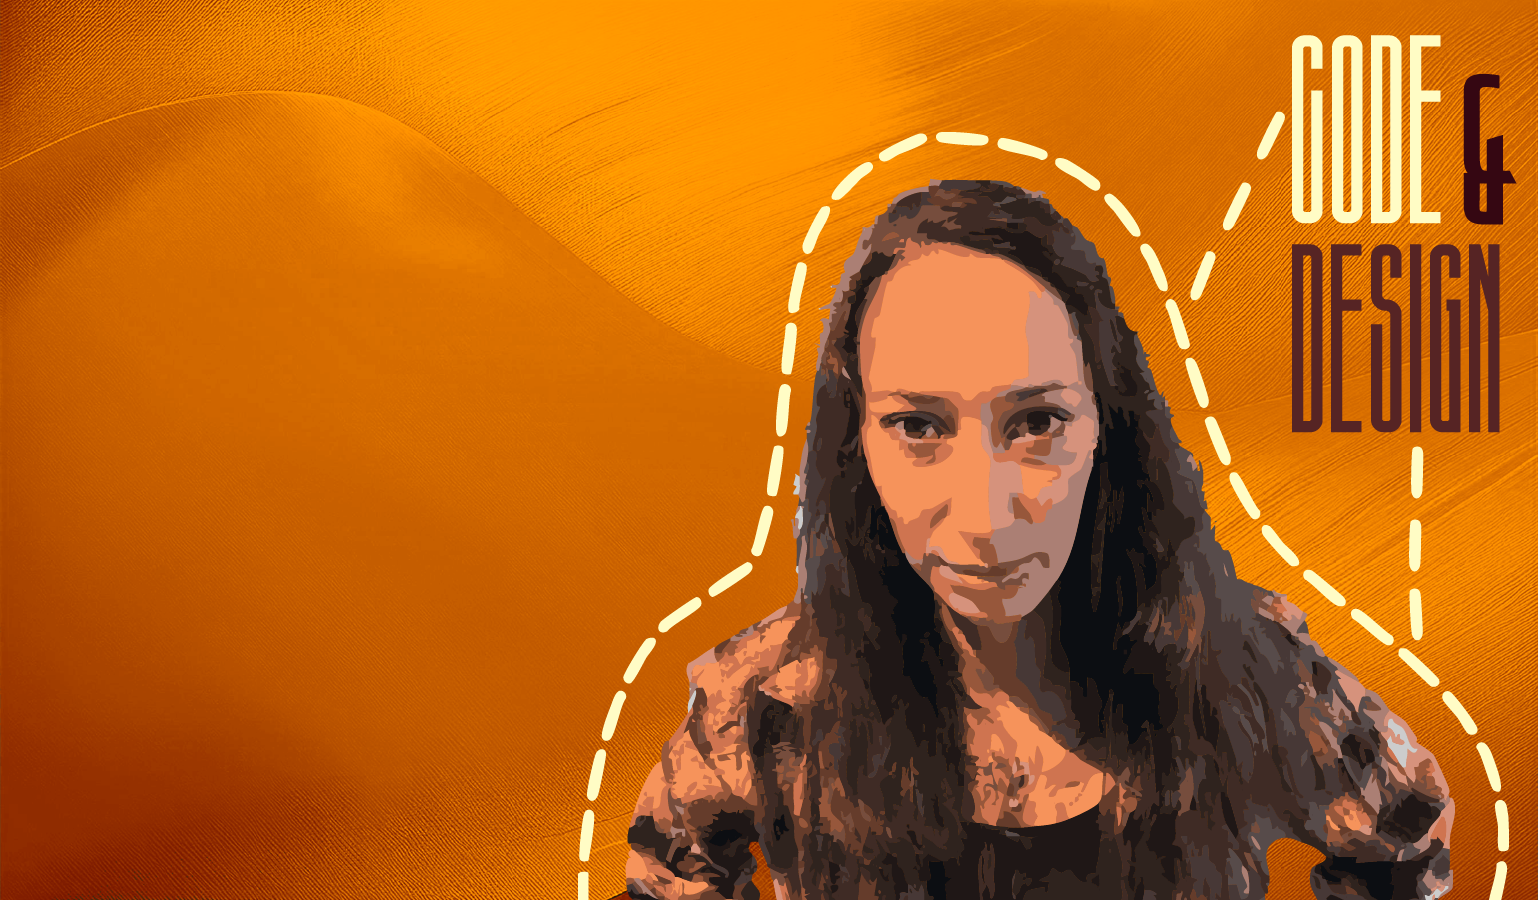
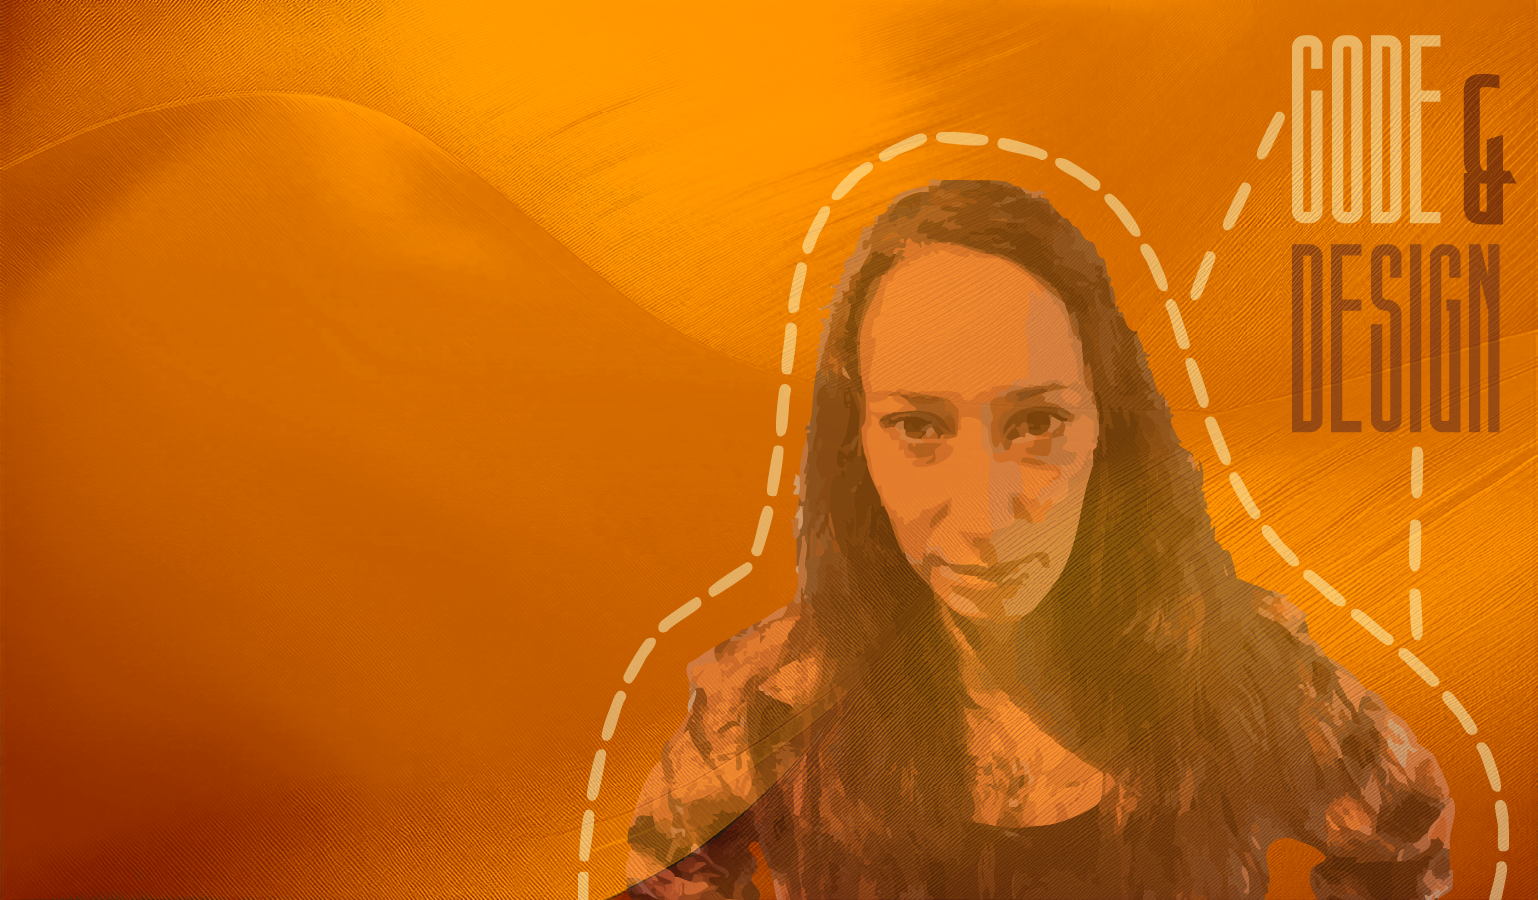
Add dark hero image for dark mode and justify the text more responsive

diff --git a/src/component/heroSection/ResponsiveHeroImage.tsx b/src/component/heroSection/ResponsiveHeroImage.tsx
@@ -1,45 +1,60 @@
-import { useEffect } from "react";
+import { useContext } from "react";
+import { ThemeContext } from "../../context/ThemeContext";
 
 const ResponsiveHeroImage = () => {
-  useEffect(() => {
-    const handleResize = () => {
-      console.log('Window resized:', window.innerWidth);
-    };
+  const themeContext = useContext(ThemeContext);
 
-    window.addEventListener("resize", handleResize);
-    return () => {
-      window.removeEventListener("resize", handleResize);
-    };
-  }, []);
+  if (!themeContext) {
+    return null; // or handle the error as needed
+  }
+
+  const { currentTheme } = themeContext;
+
+  const isDarkMode = currentTheme === "dark";
 
   return (
     <picture>
-      {/* Mobile image for screens up to 767px */}
+      {/* Mobile image */}
       <source
         media="(max-width: 767px)"
-        srcSet="/assets/images/heroImage_mobile.webp 300w, /assets/images/heroImage_mobile.webp 768w"
+        srcSet={
+          isDarkMode
+            ? "/assets/images/heroImage_mobile_dark.webp"
+            : "/assets/images/heroImage_mobile.webp"
+        }
         className="object-cover w-full h-full"
       />
 
-      {/* Tablet image for screens between 768px and 1535px */}
+      {/* Tablet image */}
       <source
         media="(min-width: 768px) and (max-width: 1535px)"
-        srcSet="/assets/images/heroImage_tablet.webp"
+        srcSet={
+          isDarkMode
+            ? "/assets/images/heroImage_tablet_dark.webp"
+            : "/assets/images/heroImage_tablet.webp"
+        }
         className="object-cover w-full h-full"
       />
 
-      {/* Desktop image for screens 1024px and wider */}
+      {/* Desktop image */}
       <source
         media="(min-width: 1536px)"
-        srcSet="/assets/images/heroImage_desktop.webp"
+        srcSet={
+          isDarkMode
+            ? "/assets/images/heroImage_desktop_dark.webp"
+            : "/assets/images/heroImage_desktop.webp"
+        }
         className="object-cover w-full h-full"
       />
 
-      {/* Fallback image for older browsers */}
+      {/* Fallback image */}
       <img
-        src="/assets/images/heroImage_desktop.webp"
+        src={
+          isDarkMode
+            ? "/assets/images/heroImage_desktop_dark.webp"
+            : "/assets/images/heroImage_desktop.webp"
+        }
         alt="Hero Image"
-        loading="lazy"
         className="object-cover w-full h-full"
       />
     </picture>

diff --git a/src/component/heroSection/HeroSection.tsx b/src/component/heroSection/HeroSection.tsx
@@ -25,18 +25,18 @@ const HeroSection = () => {
     <div className="relative w-full h-full flex justify-center">
       <div className="absolute grid grid-cols-1 md:grid-cols-[80%] 2xl:grid-cols-[50%] w-full h-full z-10">
         {/* Text Section */}
-        <div className="flex flex-col justify-center items-start px-6 md:px-12 text-left md:text-left text-[#350712] z-10">
-          <div className="bg-slate-100/40 p-4 rounded">
+        <div className="flex flex-col justify-center items-start px-6 md:px-12 text-left md:text-left z-10 ">
+          <div className="bg-gray-300/40 dark:bg-black/40 p-4 rounded text-text-accent ">
             <h1 className="text2xl sm:text-3xl md:text-3xl lg:text-4xl xl:text-4xl mb-0 font-bold leading-snug" dangerouslySetInnerHTML={{ __html: t("title") }} />
-            <h2 className="text-xl sm:text-2xl md:text-2xl lg:text-3xl mt-4 mb-2">{t("subTitle")}</h2>
-            <h3 className="text-lg sm:text-xl md:text-xl ">{t("textIntro")}</h3>
-            <p className="text-sm sm:text-base md:text-md ">{t("text")}</p>
+            <h2 className="text-[#350712] dark:text-accent-primary text-xl sm:text-2xl md:text-2xl lg:text-3xl mt-4 mb-0">{t("subTitle")}</h2>
+            <h3 className="text-[#350712]/80 text-lg sm:text-xl md:text-xl ">{t("textIntro")}</h3>
+            <p className="text-[#350712] text-sm sm:text-base md:text-md ">{t("text")}</p>
           {/* Buttons */}
-          <div className="flex flex-row gap-4">
-            <Button className="bg-btn-bg text-bg-primary border-2 border-btn-bg hover:bg-bg-hover">
+          <div className="flex flex-col md:flex-row gap-4">
+            <Button className="bg-btn-bg text-bg-primary border-2 border-btn-bg hover:border-bg-hover hover:bg-bg-hover">
               {t("ctaButtonCV")}
             </Button>
-            <Button className="bg-transparent border-2 border-[#350712] hover:bg-[#350712] hover:text-hover-text">
+            <Button className="bg-transparent border-2 text-[#350712] border-[#350712] hover:bg-[#350712] hover:text-hover-text">
               {t("ctaButtonPortfolio")}
             </Button>
           </div>

diff --git a/src/index.css b/src/index.css
@@ -66,15 +66,15 @@
 
 .outlined-text  {
   color: transparent; 
-  -webkit-text-stroke: 0.6px #edd8bf;
-  font-size: 3rem;
+  -webkit-text-stroke: 0.6px #dbf5d5;
+  font-size: 2.5rem;
   line-height: 3rem;
 }
 
 
 @media (min-width: 640px) {
   .outlined-text {
-    font-size: 4rem; 
+    font-size: 3rem; 
     line-height: 6rem;
   }
 }
